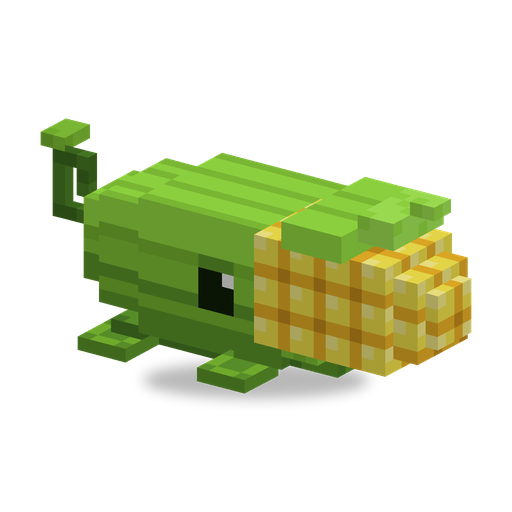
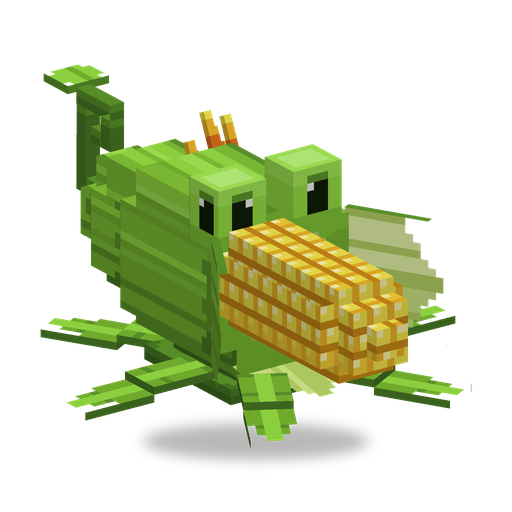
docs: Corn Cannon's new look

diff --git a/tools/docs/render_character.py b/tools/docs/render_character.py
@@ -38,8 +38,8 @@ MODEL_LAYER = {
 # Textures that do not follow textures/entity/<kind>/<id>/<id>.png
 TEXTURE = {"gnome": "gnome/red.png"}
 # Characters whose shape reads better from another side than the default 3/4 from the front-right (yaw 30):
-# the long, low Corn Cannon is drawn more from the side, so its cob, eye and tendril all show.
-VIEW_YAW = {"corn_cannon": -55.0}
+# the long Corn Cannon is drawn from the front-left, so both eyes, the cob, the opened husk and the tendril show.
+VIEW_YAW = {"corn_cannon": -35.0}
 NUM = r"-?\d+(?:\.\d+)?(?:[eE]-?\d+)?[fFdD]?"
 
 

diff --git a/docs/ru/characters/corn_cannon.md b/docs/ru/characters/corn_cannon.md
@@ -4,14 +4,14 @@
 
 **Растение · артиллерия** · Sprout Squad
 
-Длинная кукурузная шелуха лежит на розетке из листьев. По глазу с каждой стороны, сзади закрученный усик, спереди торчит крупный початок. Пушка поднимает нос и запускает початок как ракету по высокой дуге; там, где он падает, он взрывается, а пушка за 3 секунды выращивает новый.
+Кукурузный початок, у которого обёртка раскрылась спереди, как жерло пушки, и из него выглядывает крупный початок. Над жерлом выпучены два глаза, за ними торчат рыльца, сзади растёт закрученный усик; обёртка лежит на круглом основании с шестью длинными кукурузными листьями и поворачивается на нём. Пушка поднимает нос и запускает початок как ракету по высокой дуге; там, где он падает, он взрывается, а пушка за 3 секунды выращивает новый.
 
 | | |
 |---|---|
 | Id | `sproutsquad:corn_cannon` |
 | Здоровье | 90 |
 | Цена в солнцах | 14 |
-| Размер | 2,4 × 1,8 блока (модель около 3,6 блока в длину и 1,3 блока в высоту) |
+| Размер | 2,4 × 1,8 блока (модель около 3,6 блока в длину и 1,6 блока в высоту) |
 | Атака | початок раз в 3,5 с; взрывается при попадании: 8 урона в центре, к краю до 4, радиус около 3,5 блока |
 | Дальность | от 5 до 40 блоков, прямая видимость не нужна |
 | Ночью | не спит |
@@ -26,7 +26,7 @@
 - Если три взрыва подряд разорвались прямо над целью или рядом с ней за укрытием (навес, стена) и никого не задели, пушка на 5 секунд оставляет этого зомби в покое и выбирает другого. Взрыв на виду, от которого идущий зомби просто ушёл, не считается, как и взрыв, задевший другого врага; такой взрыв ещё и обрывает счёт.
 - Перед выстрелом пушка просчитывает путь початка до места взрыва: если взрыв там не достанет до зомби (стена или листва у пушки, холм, дом или крона дерева на пути, зомби слишком высоко), она не стреляет и на 5 секунд оставляет этого зомби в покое. После трёх таких отменённых выстрелов подряд она отдыхает 5 секунд.
 - Загипнотизированные зомби и машины игрока — союзники: пушка в них не целится, и початок их не ранит.
-- Выстрел: нос поднимается, глаза щурятся, примерно через полсекунды початок вылетает, шелуху откидывает назад. Пустая шелуха темна внутри, пока из неё не вырастет новый початок. Если выстрел отменился во время прицеливания (зомби подошёл слишком близко или спрятался), початок не тратится: пушка проделывает движение выстрела вхолостую.
+- Выстрел: нос поднимается, глаза щурятся, примерно через полсекунды початок вылетает, листья обёртки распахиваются, шелуху откидывает назад. Пустая шелуха темна внутри, пока из неё не вырастет новый початок. Если выстрел отменился во время прицеливания (зомби подошёл слишком близко или спрятался), початок не тратится: пушка проделывает движение выстрела вхолостую.
 - Початок летит высокой дугой, через стены и заборы, с упреждением по бегущей цели. Он одинаковый спереди и сзади, с конусом на обоих концах, без огня и дыма.
 - Взрыв ранит только тех, в кого пушка стреляет. Игроков, питомцев, жителей и растения не задевает, початок пролетает сквозь них. Стена между взрывом и зомби его защищает. Блоки не ломает, огонь не поджигает, но блок, в который попал початок, срабатывает как от стрелы (мишень даёт сигнал). Из взрыва разлетается попкорн.
 - У увеличенной пушки (атрибут масштаба) и взрыв больше: радиус растёт как квадратный корень из масштаба. Посаженная пушка уже в масштабе 2, и початок у неё такой же большой.

diff --git a/docs/en/characters/corn_cannon.md b/docs/en/characters/corn_cannon.md
@@ -4,14 +4,14 @@
 
 **Plant · artillery** · Sprout Squad
 
-A long corn husk lying on a rosette of leaves, with an eye on each side, a curly tendril at the back and a big corn cob sticking out of the front. It lifts its nose and launches the cob like a rocket in a high arc; the cob blows up where it lands and the cannon grows a new one in 3 seconds.
+An ear of corn whose husk has opened at the front into a cannon's mouth, with a big corn cob looking out of it. Two eyes bulge over the mouth, corn silk sticks up behind them and a curly tendril grows at the back; the husk lies on a round hub with six long corn leaves, and turns on it. It lifts its nose and launches the cob like a rocket in a high arc; the cob blows up where it lands and the cannon grows a new one in 3 seconds.
 
 | | |
 |---|---|
 | Id | `sproutsquad:corn_cannon` |
 | Health | 90 |
 | Sun cost | 14 |
-| Size | 2.4 × 1.8 blocks (the model is about 3.6 blocks long and 1.3 blocks high) |
+| Size | 2.4 × 1.8 blocks (the model is about 3.6 blocks long and 1.6 blocks high) |
 | Attack | a corn cob every 3.5 s; it explodes on impact: 8 damage at the centre, down to 4 at the edge, radius about 3.5 blocks |
 | Range | 5 to 40 blocks, no line of sight needed |
 | At night | does not sleep |
@@ -26,7 +26,7 @@ A long corn husk lying on a rosette of leaves, with an eye on each side, a curly
 - When three of its blasts in a row burst right over its target or next to it behind cover (an overhang, a wall) without reaching anyone, it leaves that zombie alone for 5 seconds and picks another. A blast in plain view that a walking zombie simply dodged does not count, nor does one that reached another enemy; either also breaks the run.
 - Before a shot it follows the cob's path to where it would burst: if that blast would not reach the zombie (a wall or leaves by the cannon, a hill, a house or a tree canopy in the way, a zombie too high to reach), it does not fire and leaves that zombie alone for 5 seconds. After three such shots in a row it rests for 5 seconds.
 - Hypnotized zombies and a player's machines are allies: it never aims at them, and its cob never hurts them.
-- A shot: the nose lifts and the eyes squint, the cob leaves about half a second later, and the husk kicks back. The empty husk is dark inside until the new cob has grown back out of it. A shot called off during the aim (the zombie came too close or went under cover) uses up no cob: the cannon goes through the motion without firing.
+- A shot: the nose lifts and the eyes squint, the cob leaves about half a second later as the husk leaves fling open, and the husk kicks back. The empty husk is dark inside until the new cob has grown back out of it. A shot called off during the aim (the zombie came too close or went under cover) uses up no cob: the cannon goes through the motion without firing.
 - The cob flies in a high arc, over walls and fences, and aims ahead of moving targets. It has the same cone at both ends and leaves no flame or smoke.
 - The blast hurts only what the cannon shoots at. Players, pets, villagers and plants are not hurt, and the cob flies through them. A wall between the blast and a zombie shields it. It breaks no blocks and sets no fire, but the block it lands on reacts as to an arrow (a target block gives a signal). Popcorn flies out of the blast.
 - A bigger cannon (the scale attribute) makes a bigger blast: the blast radius grows with the square root of the cannon's scale. A planted cannon is at scale 2 already: its cob is as big as it is.

diff --git a/CHANGELOG.md b/CHANGELOG.md
@@ -2,7 +2,7 @@
 Changes since Sprout Squad 0.2.6.
 
 ### Changes
-- Corn Cannon is twice as big: about 3.6 blocks long and 1.3 blocks high, a hitbox of 2.4 × 1.8 blocks. Its cob is twice as big too, and the blast radius grows from 2.5 to about 3.5 blocks. Cannons already planted grow when the world loads. It still fits under a ceiling one block up and against walls without choking.
+- Corn Cannon is twice as big and redrawn: an ear of corn whose husk opens at the front into a cannon's mouth, two eyes bulging over it, corn silk on top, lying on a hub with six long corn leaves. About 3.6 blocks long and 1.6 blocks high, a hitbox of 2.4 × 1.8 blocks, drawn at the same pixel size as other plants. Its cob is twice as big too, the husk leaves fling open as it fires, and the blast radius grows from 2.5 to 3.5 blocks. It still fits under a ceiling one block up and against walls without choking.
 
 # Sprout Squad 0.2.6
 Changes since Sprout Squad 0.2.5.
